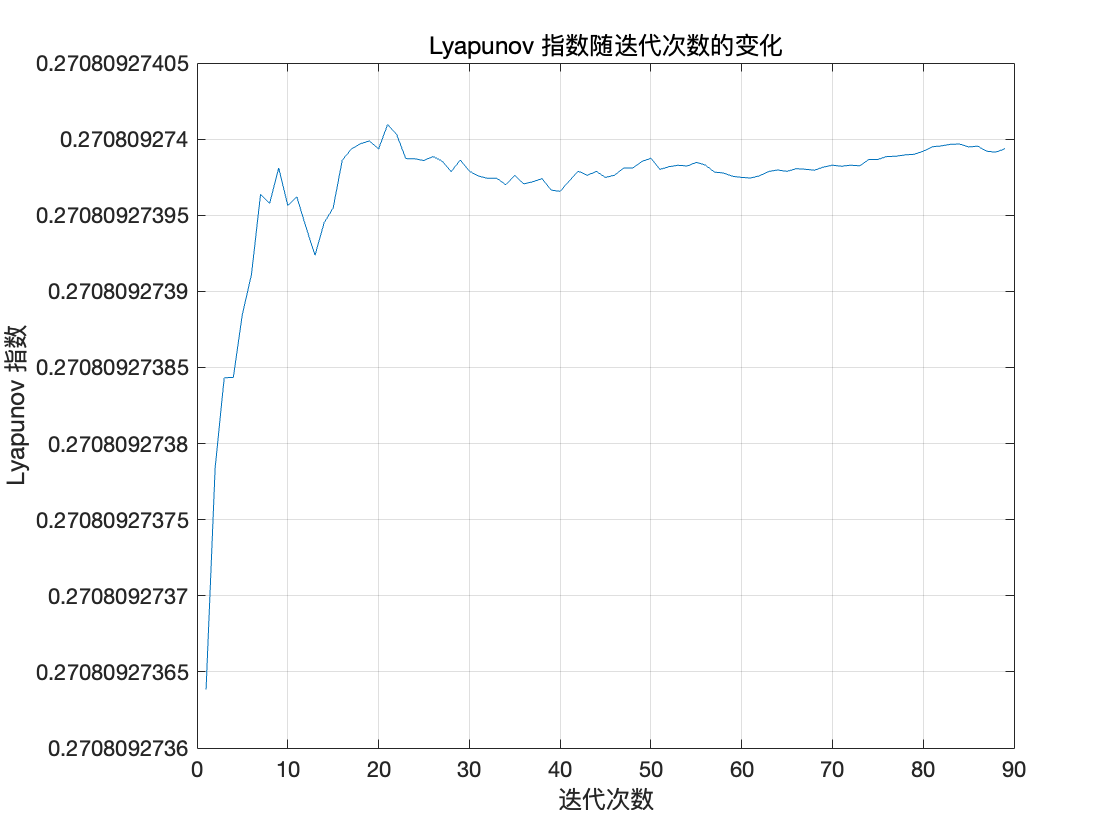
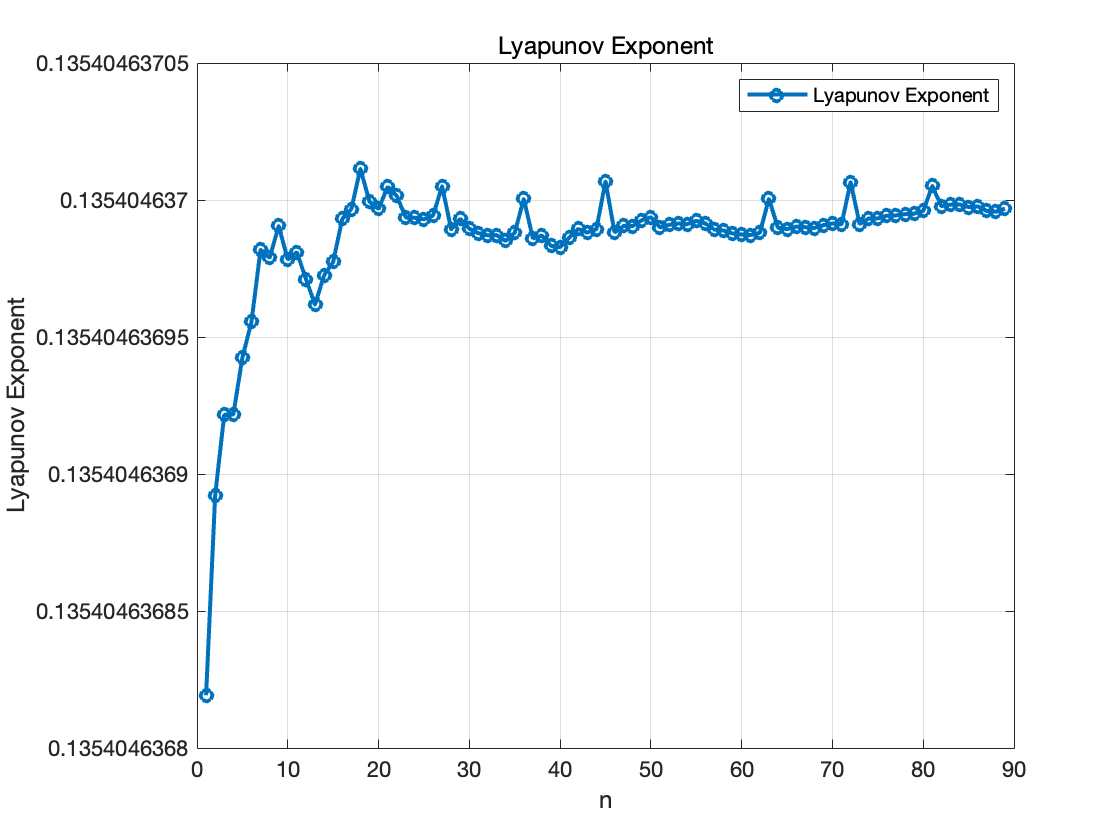
.

diff --git a/2024.3.27_组会/Lyapunov_3.m b/2024.3.27_组会/Lyapunov_3.m
@@ -1,4 +1,4 @@
-% 数值微分求 Jacobi 矩阵，然后算 Lyapunov 指数
+% 数值微分求 Jacobi 矩阵，然后算 Lyapunov 谱
 
 f = @(x) 1.145*[x(1)*cos(pi/9)-x(2)*sin(pi/9); x(1)*sin(pi/9)+x(2)*cos(pi/9)];
 
@@ -21,15 +21,14 @@ format long;
 
 for i = 2:90
     J_tmp = J(:,2*i-1:2*i);
-    J_tmp = log(det(J_tmp))/(i-1);
-    Lyapunov = [Lyapunov, J_tmp];
+    J_tmp = log(abs(eig(J_tmp)))/(i-1);
     disp(J_tmp);
+    Lyapunov = [Lyapunov, max(abs(J_tmp(1)), abs(J_tmp(2)))];
 end
 
-% 绘制 Lyapunov 指数随迭代次数的变化图表
-iterations = 1:89;
-plot(iterations, Lyapunov);
-xlabel('迭代次数');
-ylabel('Lyapunov 指数');
-title('Lyapunov 指数随迭代次数的变化');
+plot(1:89, Lyapunov, 'o-', 'LineWidth', 2, "DisplayName", "Lyapunov Exponent");
+xlabel('n');
+ylabel('Lyapunov Exponent');
+title("Lyapunov Exponent");
+legend('show');
 grid on;
